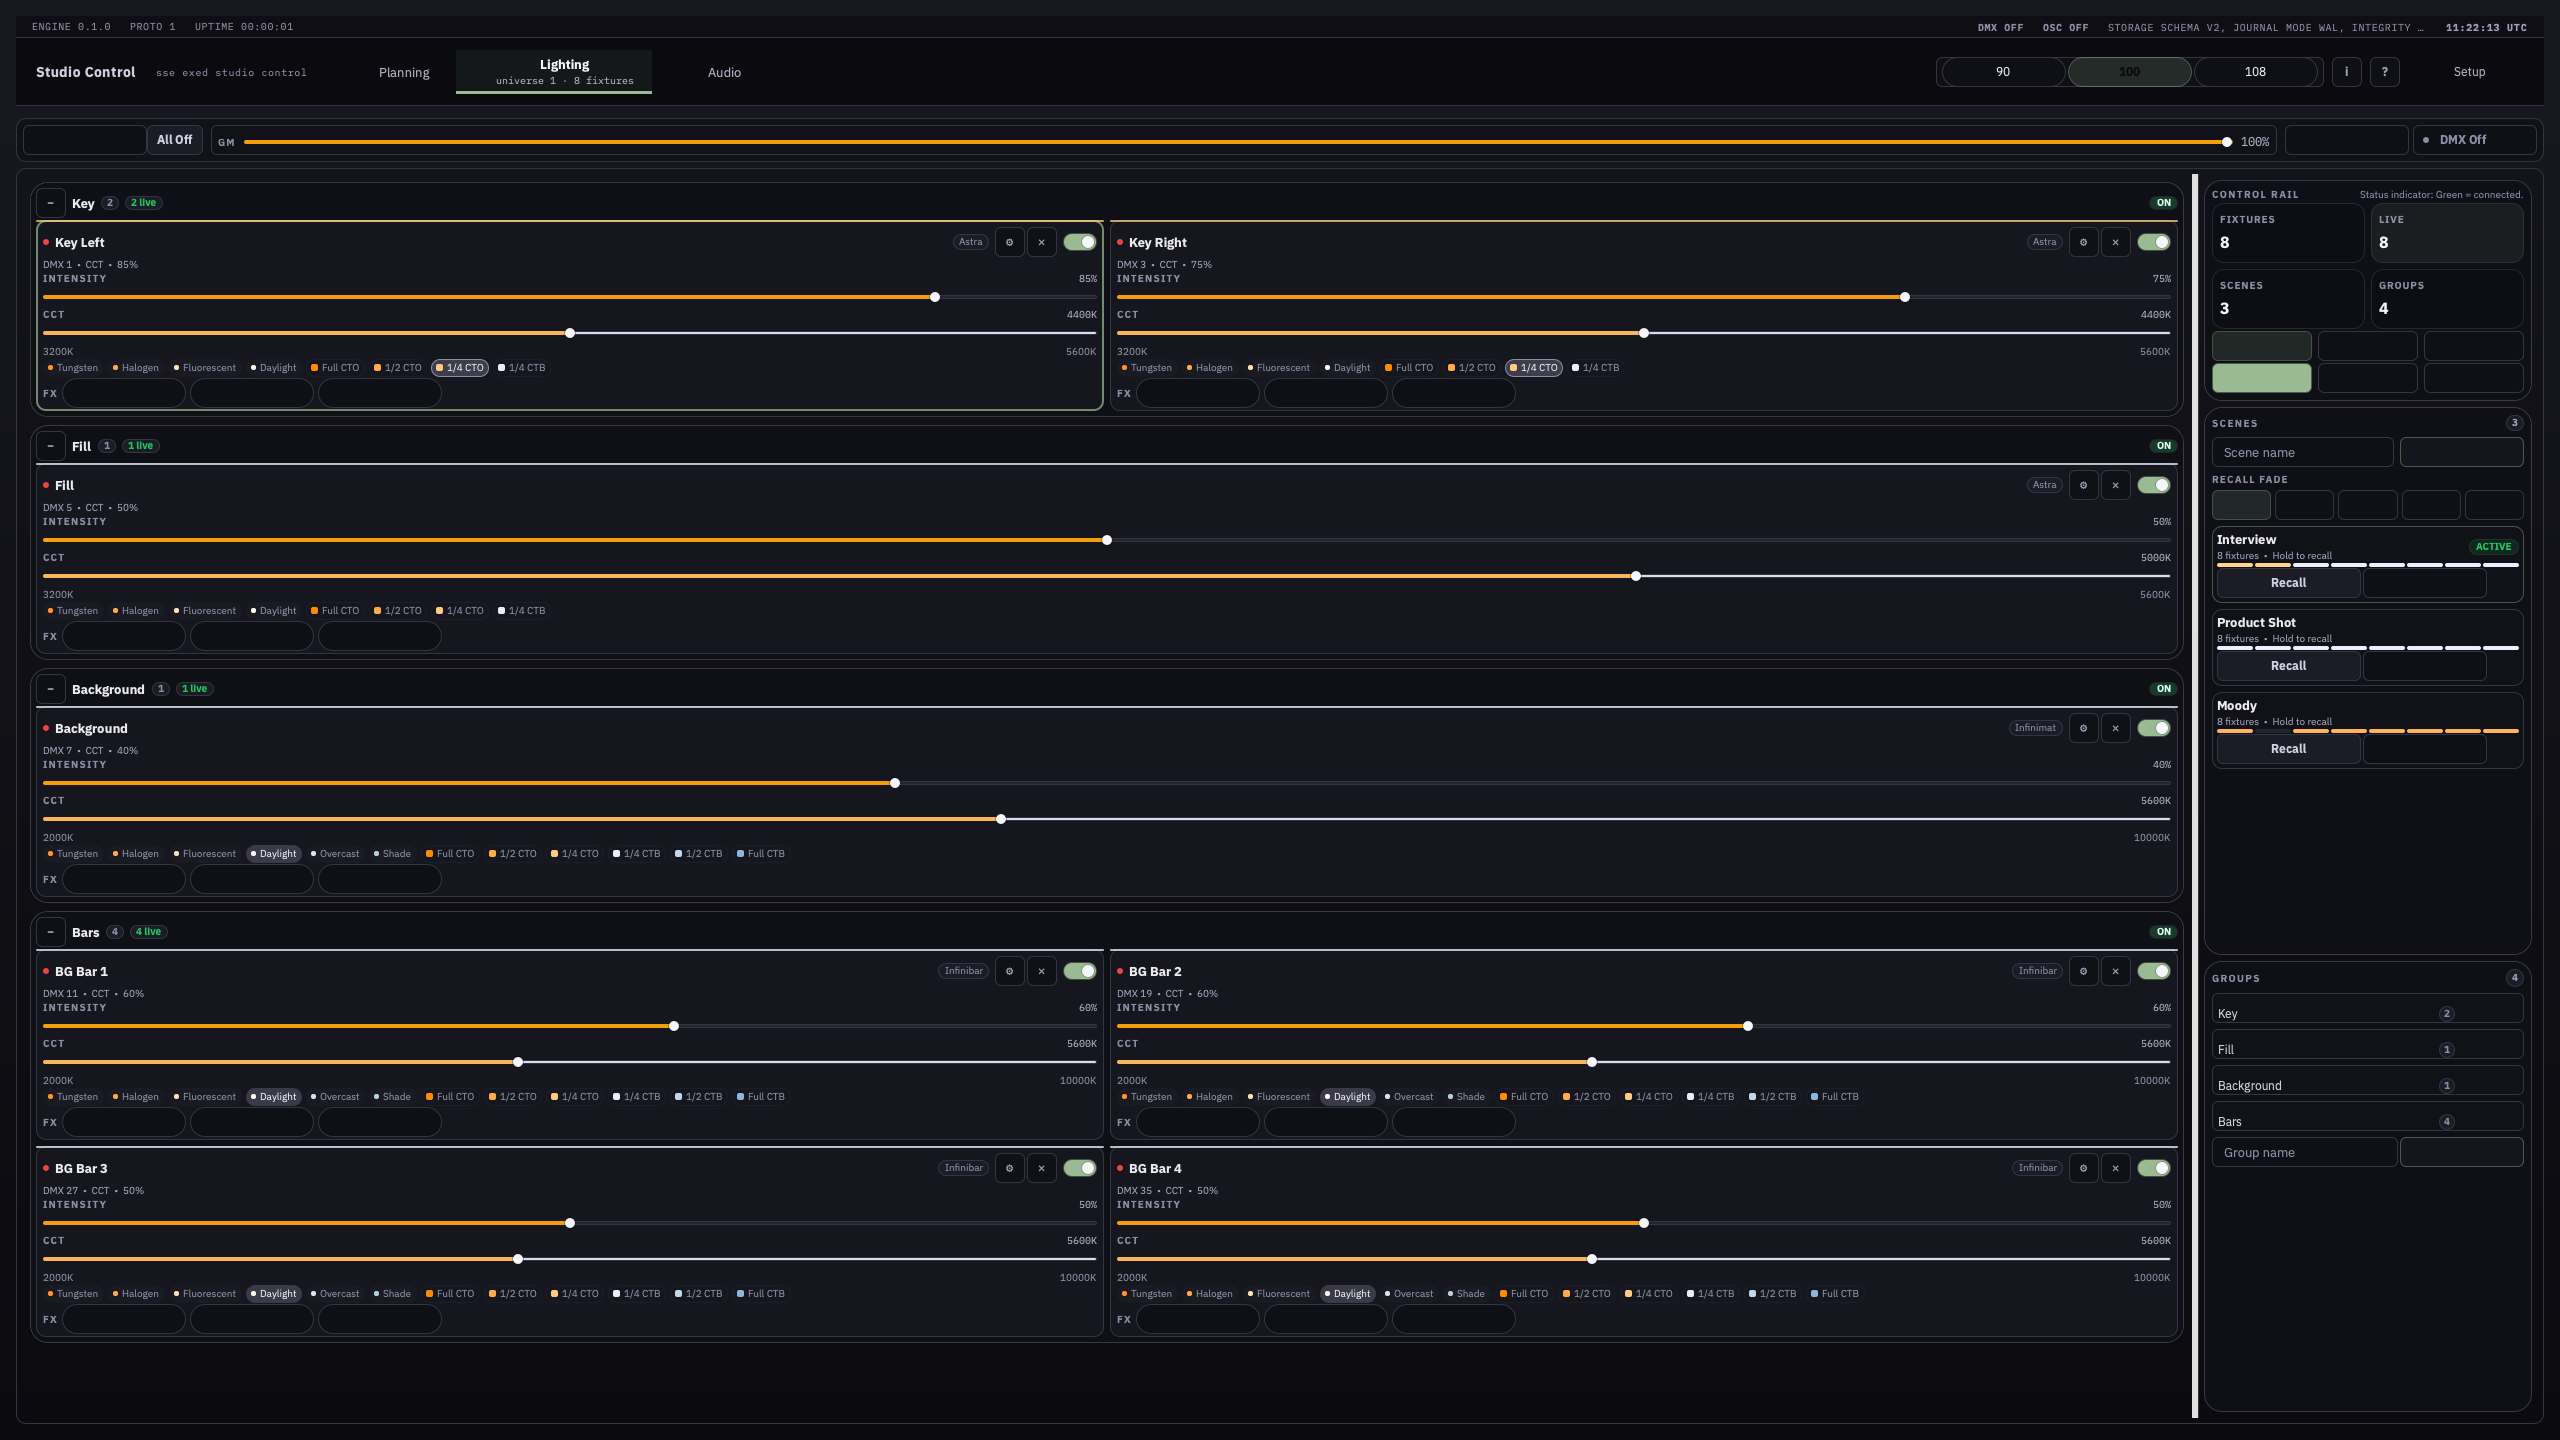
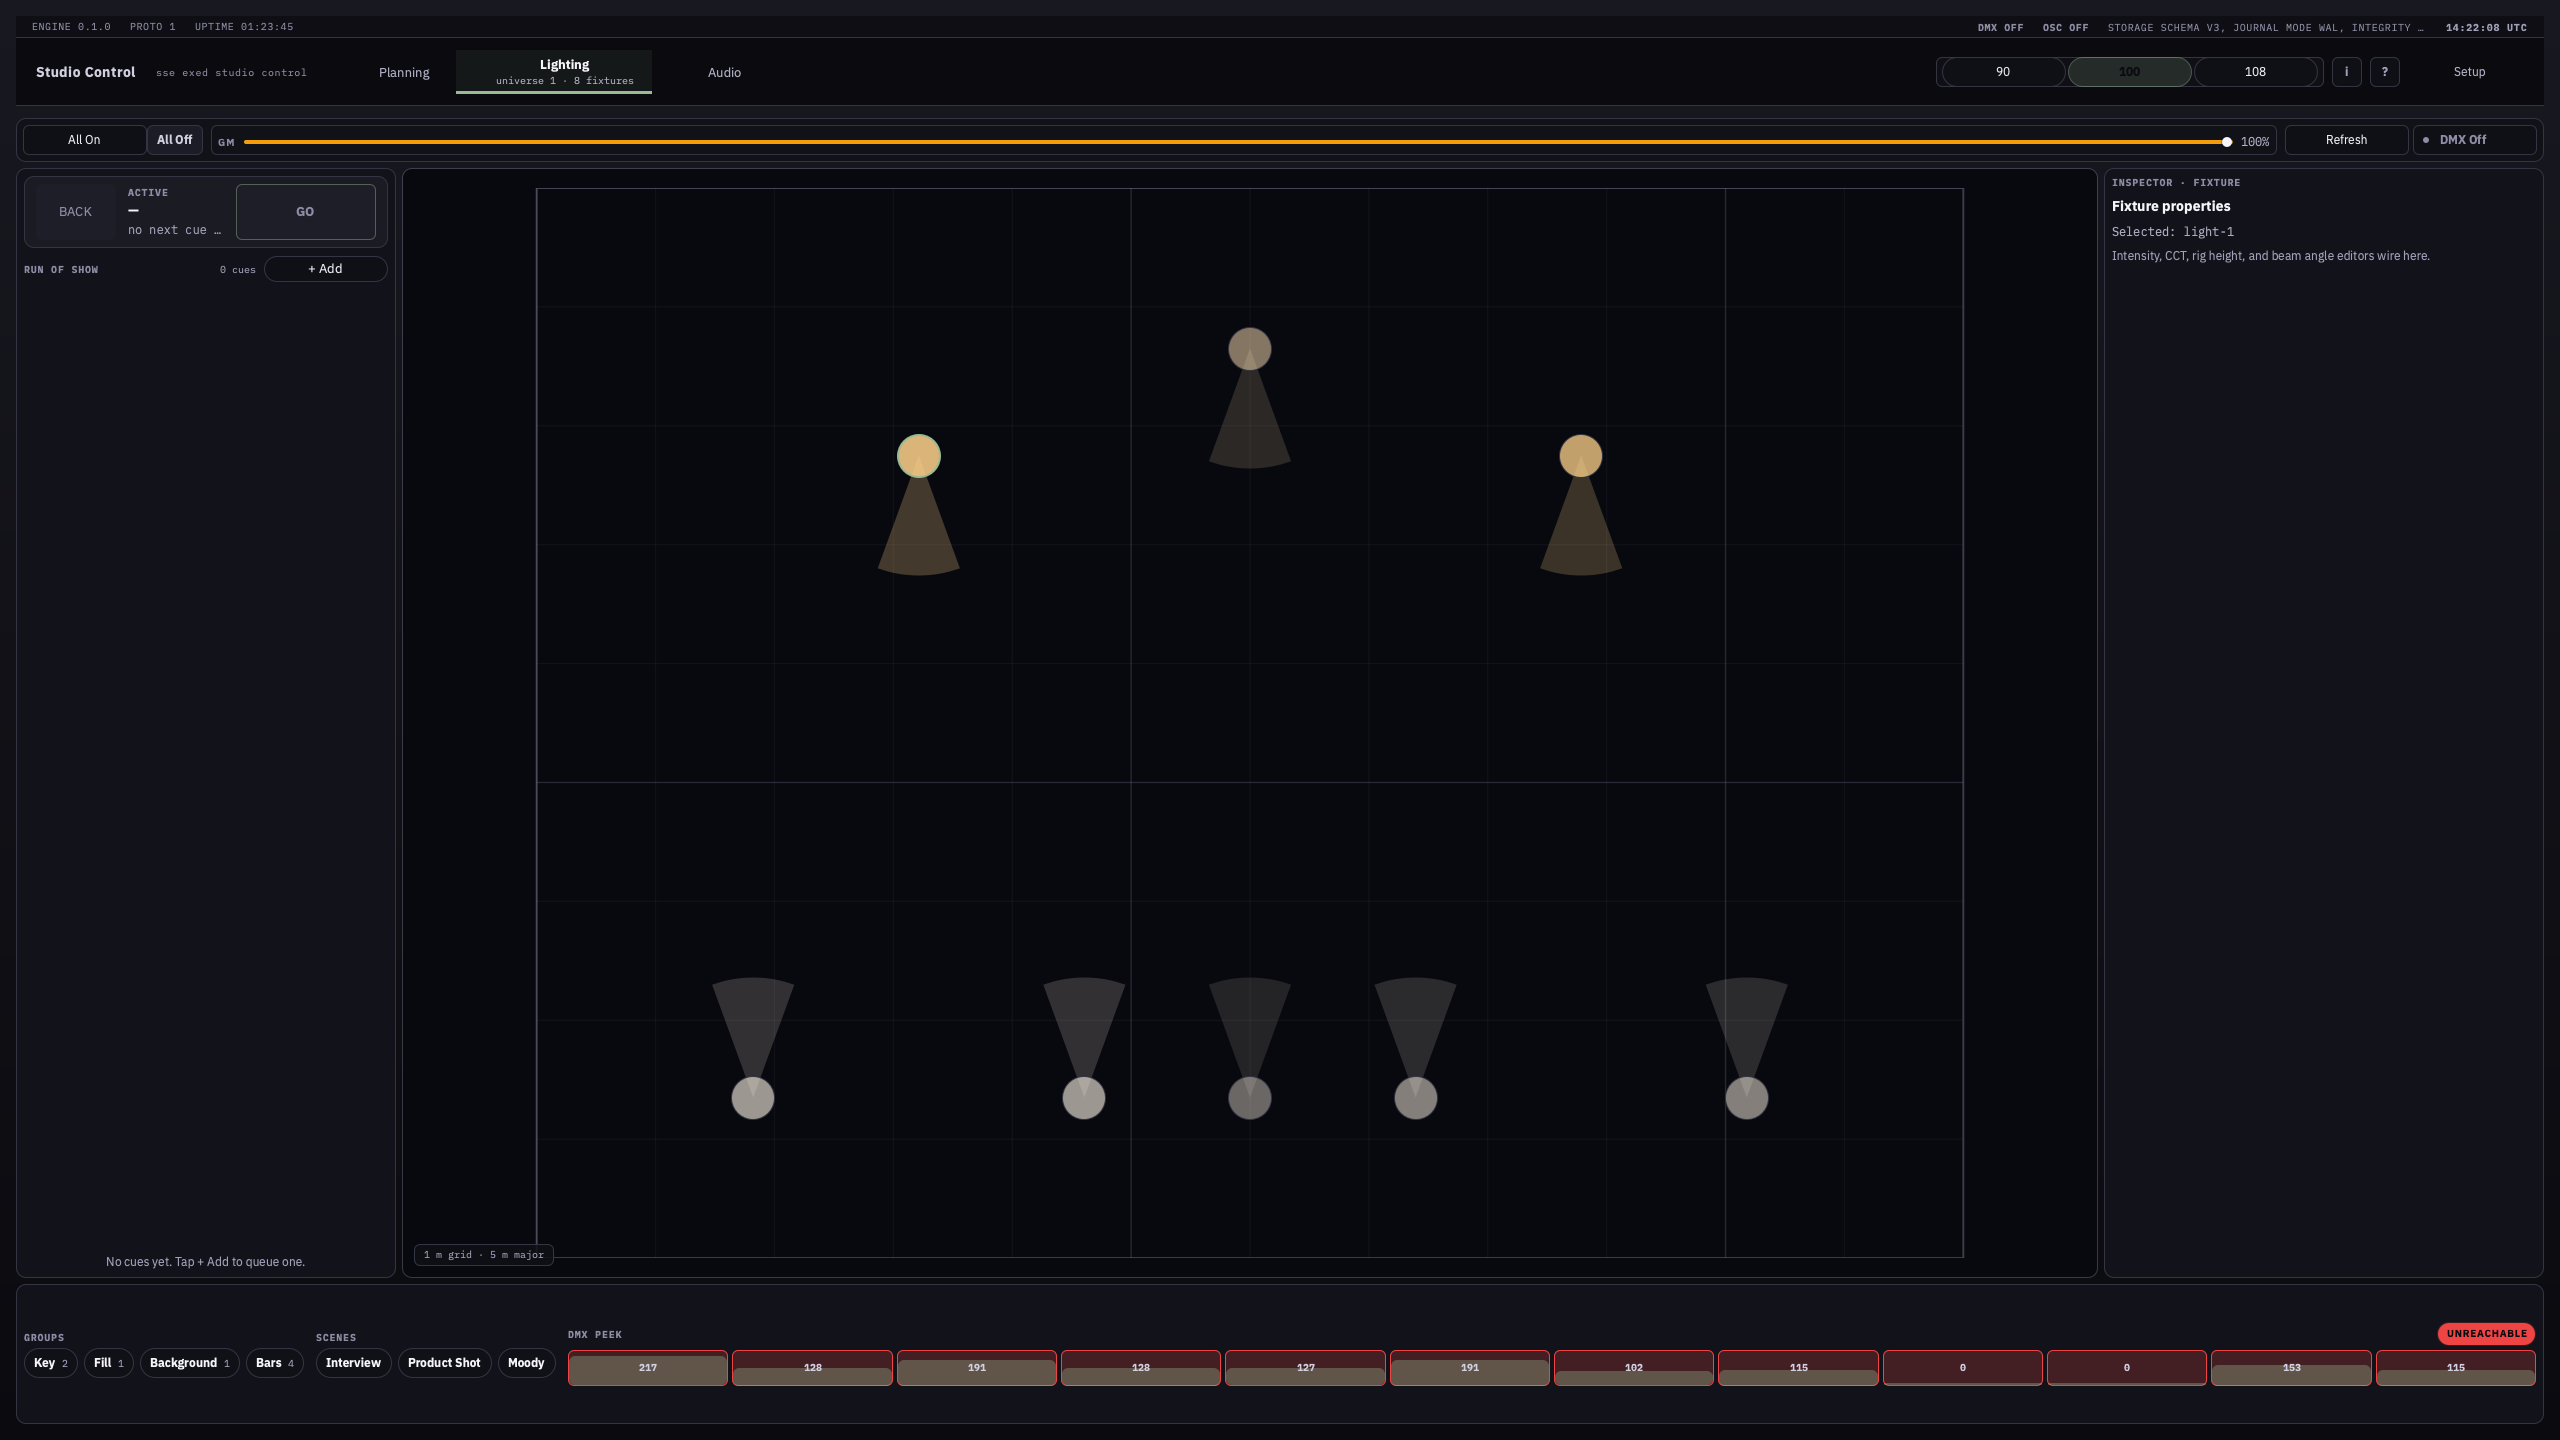
parity: rebaseline lighting + freeze Main.qml clock for engine capture
Direction Cr lighting workspace redesign (1be2f79) requires a
refreshed offscreen baseline. Engine-backed parity captures
(audio-populated, lighting-populated, setup-ready) were previously
non-deterministic due to the live UTC clock in DashboardHeaderPanel
not being frozen in Main.qml — the ParityCaptureHarness path had
parityFrozenClock/parityFrozenUptime but the engine-backed path
did not.

Main.qml now exposes the same freeze hooks as the harness
(`14:22:08 UTC`, `01:23:45`) when parityCaptureMode is set.
LightingWorkspacePanel receives `parityFrozen: root.parityCaptureMode`
so the MultiEffect glow and Shape layer compositing take the
deterministic path during capture.

Verified two consecutive cold-start captures produce bit-identical
PNGs for all three engine-backed scenes at both workstation
(2560x1440) and minimum (1280x800) resolutions.

diff --git a/native/qt-shell/qml/Main.qml b/native/qt-shell/qml/Main.qml
@@ -10,6 +10,8 @@ ApplicationWindow {
     property QtObject engineController: null
     property bool shellSmokeTest: false
     property bool parityCaptureMode: false
+    property string parityFrozenClock: parityCaptureMode ? "14:22:08 UTC" : ""
+    property string parityFrozenUptime: parityCaptureMode ? "01:23:45" : ""
     property string operatorVerifyAction: ""
     property bool operatorVerifyActionCompleted: false
     property bool operatorVerifyReadyForScreenshot: false
@@ -2597,6 +2599,7 @@ ApplicationWindow {
                     rootWindow: root
                     engineController: root.engineController
                     scaleFactor: root.dashboardUiScale
+                    parityFrozen: root.parityCaptureMode
                     Component.onCompleted: root.lightingWorkspacePanelRef = lightingWorkspacePanel
                     Component.onDestruction: {
                         if (root.lightingWorkspacePanelRef === lightingWorkspacePanel) {